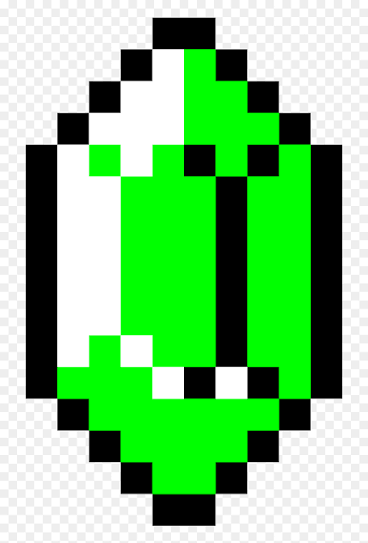
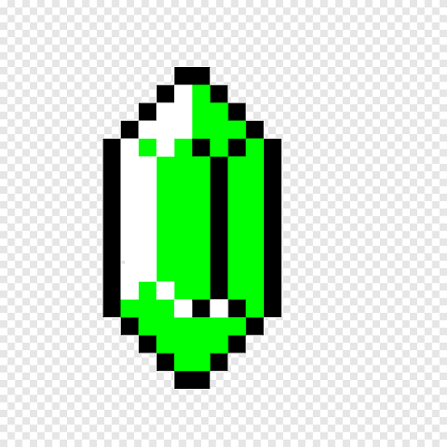
updated platformer

diff --git a/fsd-projects/platformer/platformer.js b/fsd-projects/platformer/platformer.js
@@ -38,10 +38,10 @@ createPlatform(100, 300, 200, 20, "brown", 100, 300, 2, 500, 500, 500)
 createPlatform(600, 300, 200, 20, "brown")
 createPlatform(1000, 500, 200, 20, "brown", 1000, 1000, 2, 300, 300, 1)
     // TODO 3 - Create Collectables
-createCollectable("RupeeG", 1080, 460);
-createCollectable("RupeeG", 150, 460);
-createCollectable("RupeeG", 680, 550);
-    createCollectable("RupeeG", 1080, 100)
+createCollectable("flowery", 1080, 460);
+createCollectable("flowery", 150, 460);
+createCollectable("flowery", 680, 550);
+    createCollectable("flowery", 1080, 100)
     // TODO 4 - Create Cannons
 createCannon("left", 500, 1000)
 createCannon("top", 200, 900, 30, 30, 100, 400, 6)

diff --git a/fsd-projects/platformer/platformer.css b/fsd-projects/platformer/platformer.css
@@ -12,7 +12,7 @@ canvas {
   margin: 20px;
   border-radius: 15px;
   border: 5px solid rgba(109, 94, 46, 0.993);
-  background-image: url("https://static.wikia.nocookie.net/zelda_gamepedia_en/images/b/b7/OoT_Lava.png/revision/latest?cb=20110514031735");
+  background-image: url("https://encrypted-tbn0.gstatic.com/images?q=tbn:ANd9GcQRgX7HqTN4h3r9gLGtCYiG2RoEz11luQ-FooNiZKt_SOBoxOAbRBQuhtM:https://deltarune.wiki/images/Flower_Castle_location.png%3Fcb%3Daw4l5o%26h%3Dthumb.php%26f%3DFlower_Castle_location.png&s=10");
   background-repeat: no-repeat;
   background-attachment: fixed;
   background-size: cover;

diff --git a/portfolio.html b/portfolio.html
@@ -20,6 +20,10 @@
         <li class="nav-li">
           <a href="portfolio.html">Portfolio</a>
         </li>
+         </li>
+        <li class="nav-li">
+          <a href="gallery.html">Gallery</a>
+        </li>
       </ul>
     </nav>
 
@@ -47,9 +51,7 @@
           <li>
             <a href="fsd-projects/pong/">Pong: Another very cool game to waste time on</a>
           </li>
-          <li>
-           <a href="//"></a>
-          </li>
+         
         
           
 

diff --git a/fsd-projects/pong/style.css b/fsd-projects/pong/style.css
@@ -1,0 +1,14 @@
+.top-img {
+  width: 100%;
+  max-width: 760px;
+  aspect-ratio: 3 / 4;
+  object-fit: cover;
+  display: block;
+  border-radius: 16px;
+  filter: grayscale(100%);
+  box-shadow: 0 8px 30px rgba(0, 0, 0, 0.12);
+  transition:
+    filter 0.4s ease,
+    transform 0.4s ease,
+    box-shadow 0.4s ease;
+}

diff --git a/fsd-projects/pong/index.html b/fsd-projects/pong/index.html
@@ -18,6 +18,10 @@
   </style>
 </head>
 <body>
+  <div class="top">
+        <img class="top-img"
+          src="http://ouya.cweiske.de/game-images/com.Arondriessen.Pong/discover" />
+      </div>
 <canvas width="750" height="585" id="game"></canvas>
 <script>
 const canvas = document.getElementById('game');

diff --git a/fsd-projects/platformer/setup.js b/fsd-projects/platformer/setup.js
@@ -102,4 +102,5 @@ var collectableList = {
   kennedi: { image: "images/collectables/kennedi-head.png" },
   max: { image: "images/collectables/max-head.png" },
   RupeeG: { image: "images/collectables/RupeeG.png" },
+  flowery: { image: "images/collectables/flowery.png" },
 };

diff --git a/index.html b/index.html
@@ -37,7 +37,7 @@
 
       <div class="content">
         <h2>Coming Straight From Your House</h2>
-        <p>He's groovy, and NEVER glooby</p>
+        <p>He's groovy,and NEVER glooby</p>
 
         <div id="interests">
           <h3>Interests</h3>
